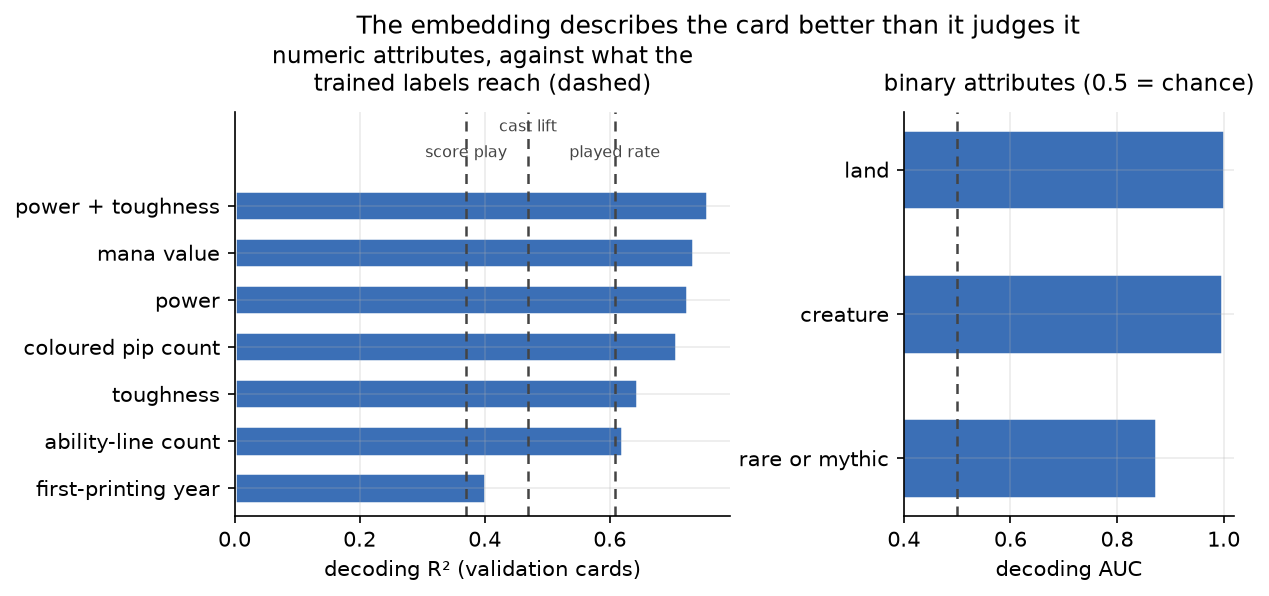
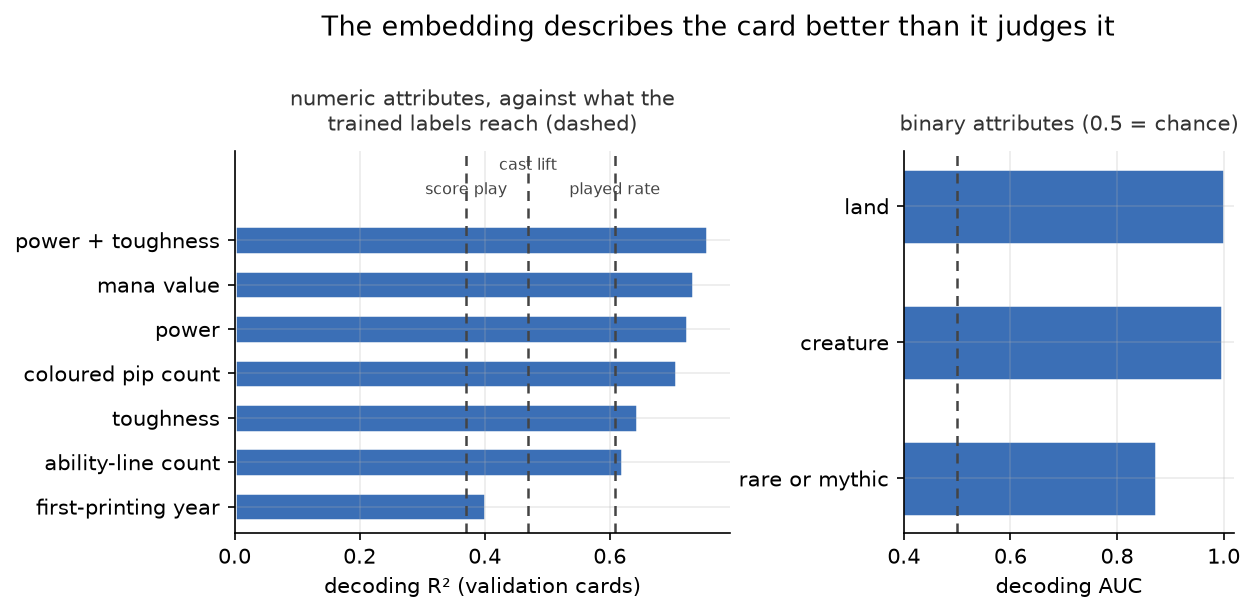
docs(experiments): separate the decode figure's title levels
Larger suptitle with real vertical clearance; panel titles drop to
10pt in softer ink so the hierarchy reads at a glance.

Changed region(s): [[0.0, 0.0, 0.9012, 0.9664], [0.5904, 0.1812, 0.9944, 0.9966], [0.6837, 0.1208, 0.9944, 0.151]]

diff --git a/scripts/encoder_probes/make_figures.py b/scripts/encoder_probes/make_figures.py
@@ -248,7 +248,8 @@ def fig_decode():
                  fontsize=7.5, color="#444444")
     ax1.set_yticks(y, r2["target"])
     ax1.set_xlabel("decoding R² (validation cards)")
-    ax1.set_title("numeric attributes, against what the\ntrained labels reach (dashed)", pad=10)
+    ax1.set_title("numeric attributes, against what the\ntrained labels reach (dashed)", pad=10,
+                  fontsize=10, color="#333333")
 
     short = {"is a creature": "creature", "is a land": "land",
              "first printing rare or mythic": "rare or mythic"}
@@ -259,9 +260,11 @@ def fig_decode():
     ax2.set_yticks(y2, [short.get(t, t) for t in auc["target"]])
     ax2.set_xlim(0.4, 1.02)
     ax2.set_xlabel("decoding AUC")
-    ax2.set_title("binary attributes (0.5 = chance)", pad=10)
-    fig.subplots_adjust(wspace=0.42, top=0.82)
-    fig.suptitle("The embedding describes the card better than it judges it", y=0.99)
+    ax2.set_title("binary attributes (0.5 = chance)", pad=10,
+                  fontsize=10, color="#333333")
+    fig.subplots_adjust(wspace=0.42, top=0.78)
+    fig.suptitle("The embedding describes the card better than it judges it",
+                 y=1.02, fontsize=13)
     save(fig, "decode")
 
 
